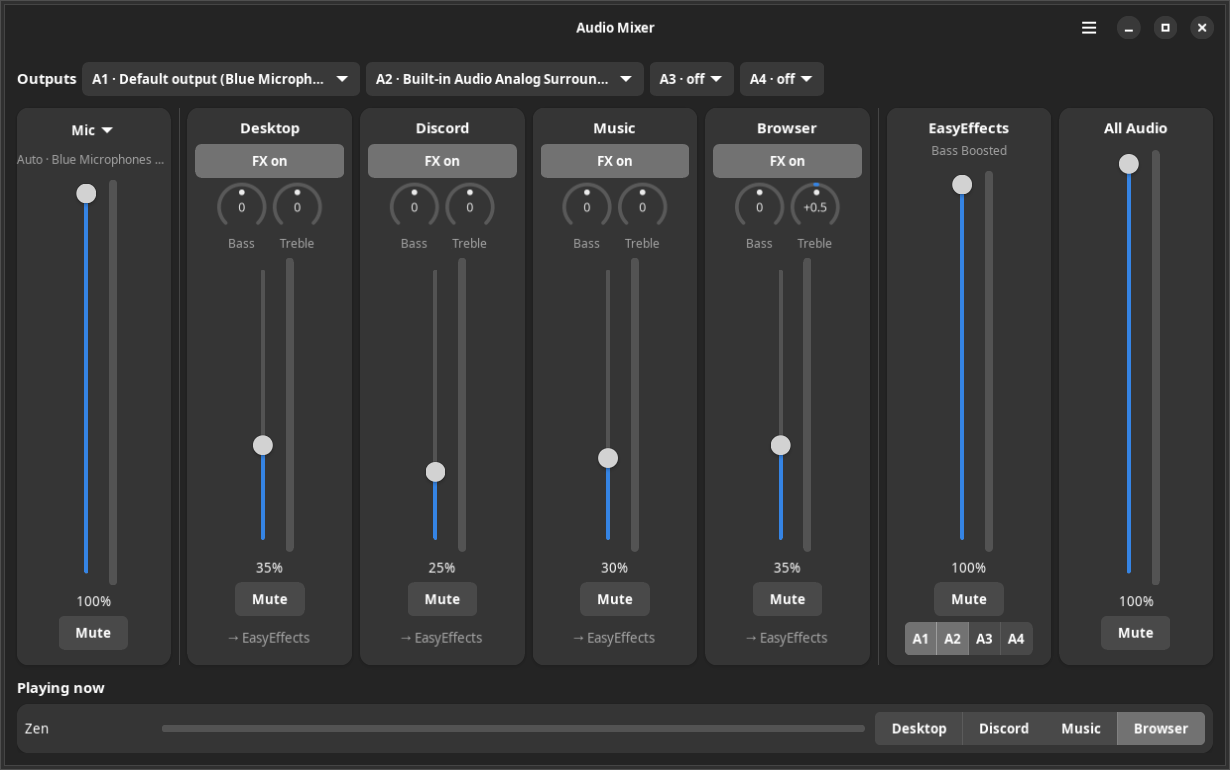
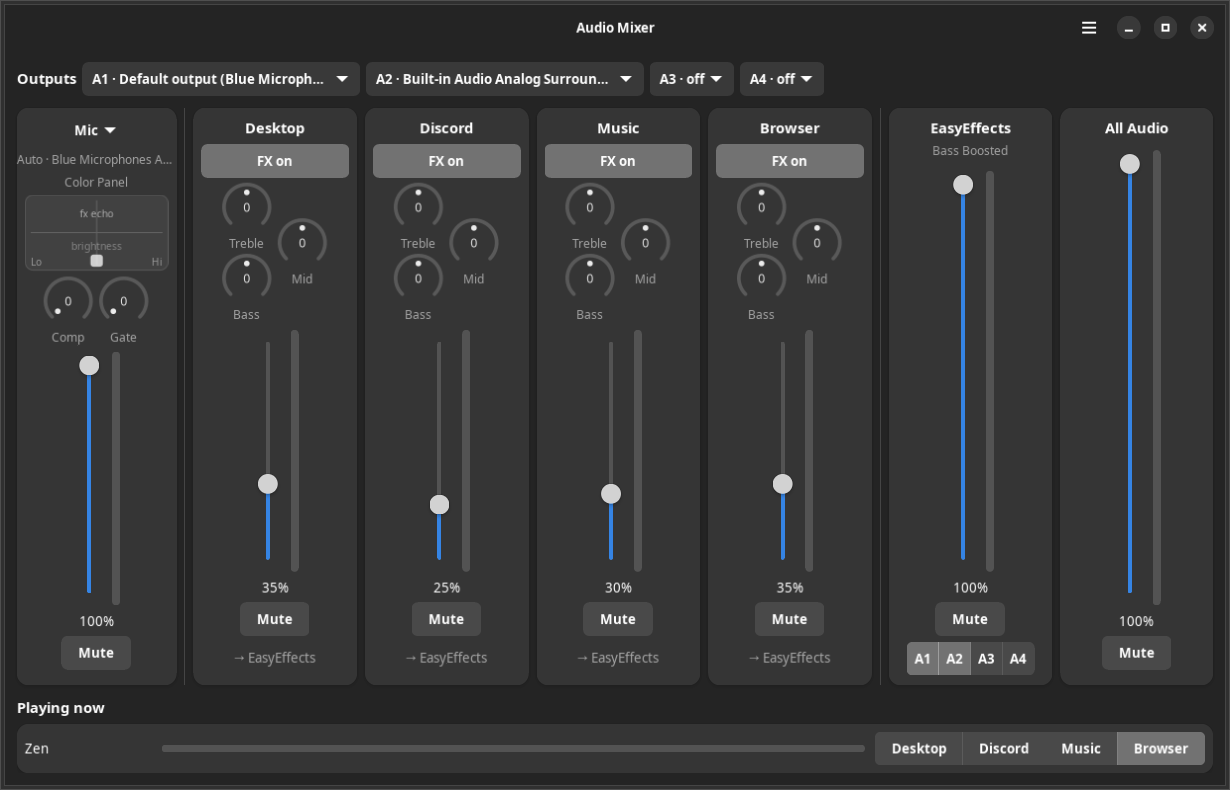
README: renaming, the 3-band EQ and the mic's Color Panel / Comp / Gate; new screenshots

diff --git a/README.md b/README.md
@@ -13,8 +13,10 @@ apart.
 ## What you get
 
 - **Four separate channels** — Desktop (games and everything else), Discord,
-  Music and Browser — each with its own volume, mute, Bass and Treble.
-- **Your mic on its own strip**, through EasyEffects if you like.
+  Music and Browser — each with its own volume, mute and Treble / Mid / Bass.
+  **Rename them** to whatever you route there.
+- **Your mic on its own strip** with VoiceMeeter's **Color Panel** (tone,
+  brightness, echo) and **Comp / Gate** knobs, then through EasyEffects.
 - **Apps land on the right channel by themselves.** New ones go to Desktop and
   you pick their channel once, in the window.
 - **Outputs A1–A4**: send any channel to your speakers, headset, HDMI… or
@@ -48,24 +50,41 @@ level in %. From left to right:
 
 | Strip           | What it's for                                                                 |
 | --------------- | ----------------------------------------------------------------------------- |
-| **Mic**         | Your microphone. Click its name to pick a different mic.                      |
-| **Channels**    | **FX** on = through EasyEffects, off = plays dry on its own **A1–A4** outputs. |
+| **Mic**         | Your microphone, with the Color Panel and Comp / Gate. Click its name to pick a different mic. |
+| **Channels**    | **FX** on = through EasyEffects, off = plays dry on its own **A1–A4** outputs. Treble / Mid / Bass. |
 | **EasyEffects** | Everything with FX on, after your EasyEffects preset, and where it plays.     |
 | **All Audio**   | All channels mixed — pick it as an input in OBS (it doesn't include your mic). |
 
-- **Bass and Treble knobs** (±12 dB): drag up or down to turn them,
+- **Treble, Mid and Bass knobs** (±12 dB): drag up or down to turn them,
   double-click to set them back to 0. Click one first and the mouse wheel or
   arrow keys turn it too.
+- **Rename a channel**: right-click its name, type, Enter. Only the name
+  changes — its apps, hotkeys and settings stay. Other apps see the new name
+  after the audio engine restarts (the window offers to do that).
 - **Outputs** (top row): choose which device A1–A4 are. "Default output"
   follows your headset when you plug it in.
 - **Playing now** (bottom): every app making sound. Click a channel to move the
   app there — for good. New apps are marked **NEW**.
 
+### Your mic: Color Panel, Comp and Gate
+
+Like VoiceMeeter's mic strips:
+
+- **Color Panel** — drag the square. Left warms your voice up (**Lo**), right
+  makes it thinner and clearer (**Hi**). Up adds **brightness**; past the line
+  it adds an **echo** too. Double-click puts it back in the middle (no change).
+- **Comp** evens out loud and quiet (0 = off, 10 = a lot), and keeps your
+  normal speaking level about the same.
+- **Gate** hushes the room between your words (0 = off; higher = only louder
+  sounds get through).
+
+All of it runs inside PipeWire itself — no plugins, no extra programs.
+
 ### It fits any size
 
-Make the window smaller and everything shrinks with it, step by step — no
-scroll bars. Make it narrow (or short) and it turns into a compact mixer for a
-corner of your screen:
+Make the window smaller — narrower or shorter — and everything shrinks with
+it, step by step, with no scroll bars. Make it really small and it turns into
+a compact mixer for a corner of your screen:
 
 <img src="docs/images/mixer-window-compact.png" alt="The compact view" width="300">
 
@@ -93,12 +112,12 @@ output. A small overlay shows each change on screen.
 
 The defaults:
 
-| Channel | What goes here                      | Mute          | Volume down | Volume up   |
+| Channel (default name) | What goes here      | Mute          | Volume down | Volume up   |
 | ------- | ----------------------------------- | ------------- | ----------- | ----------- |
-| Desktop | Games, wine/proton, everything else | `Ctrl+Num1`   | `Ctrl+Num4` | `Ctrl+Num7` |
-| Discord | Discord                             | `Ctrl+Num2`   | `Ctrl+Num5` | `Ctrl+Num8` |
-| Music   | YouTube Music, Spotify, Plexamp     | `Ctrl+Num3`   | `Ctrl+Num6` | `Ctrl+Num9` |
-| Browser | Chrome, Firefox, Brave, Zen…        | `Ctrl+NumDel` | `Ctrl+Num+` | `Ctrl+Num-` |
+| Desktop  | Games, everything else      | `Ctrl+Num1`   | `Ctrl+Num4` | `Ctrl+Num7` |
+| Discord  | Discord                     | `Ctrl+Num2`   | `Ctrl+Num5` | `Ctrl+Num8` |
+| Music    | YouTube Music, Spotify…     | `Ctrl+Num3`   | `Ctrl+Num6` | `Ctrl+Num9` |
+| Browser  | Chrome, Firefox, Zen…       | `Ctrl+NumDel` | `Ctrl+Num+` | `Ctrl+Num-` |
 
 A muted mic stays muted: changing its level doesn't unmute it, and it's still
 muted after a reboot.
@@ -178,23 +197,27 @@ audio-mixer fx browser off             # Browser plays dry
 audio-mixer slot A2 alsa_output.usb-…  # A2 = the headset
 audio-mixer out browser A2 on          # Browser also plays on A2
 audio-mixer out fx A2 on               # the EasyEffects strip also plays on A2
-audio-mixer eq music bass 6            # +6 dB bass on Music
+audio-mixer eq music bass 6            # +6 dB bass on Music (bass, mid or treble)
 audio-mixer mic auto                   # or a device name from `devices`
+audio-mixer mic comp 3                 # the mic's Comp / Gate, 0-10
+audio-mixer mic color -0.5 0.7         # Color Panel: x -1 (Lo)..1 (Hi), y 0..1
+audio-mixer rename music Podcasts      # a channel's new name
 audio-mixer hotkeys list               # every action and its keys
 audio-mixer hotkeys set mic:mute "<Ctrl><Alt>m"
 audio-mixer restart easyeffects        # or: restart engine
 ```
 
-Your settings live in `~/.config/audio-mixer/`: `mixer.json` (FX, outputs,
-Bass/Treble, mic), `hotkeys.json`, `routes.json` (which app goes where) and
+Your settings live in `~/.config/audio-mixer/`: `channels.conf` (the channels
+and their names), `mixer.json` (FX, outputs, EQ, the mic and its Color Panel /
+Comp / Gate), `hotkeys.json`, `routes.json` (which app goes where) and
 `window.json` (window size and theme).
 </details>
 
 <details>
 <summary><b>Customizing</b></summary>
 
-- **Channels** — add, remove or rename them in
-  `~/.config/audio-mixer/channels.conf`, then run `audio-routes-apply`.
+- **Channels** — add or remove them in `~/.config/audio-mixer/channels.conf`,
+  then run `audio-routes-apply`. (Renaming is easier in the window.)
 - **Volume step per keypress** — `STEP` in `~/.local/bin/audio-channel-control`
   (default 1%).
 - **Overlay position** — `TOP_MARGIN` in `~/.local/bin/audio-osd`.
@@ -206,8 +229,8 @@ Bass/Treble, mic), `hotkeys.json`, `routes.json` (which app goes where) and
 <details>
 <summary><b>How it works</b></summary>
 
-Each channel is a virtual PipeWire sink with its own volume and Bass/Treble
-filters. Apps are placed on their channel **the moment they start** — PipeWire
+Each channel is a virtual PipeWire sink with its own volume and Treble / Mid /
+Bass filters. Apps are placed on their channel **the moment they start** — PipeWire
 is told where each app belongs before its stream exists — so nothing ever
 blasts at full volume on the wrong output, and a restarted player comes back
 on its own channel.
@@ -216,19 +239,19 @@ on its own channel.
   Discord        Spotify        Chrome      games, new apps
      │              │              │                │
      ▼              ▼              ▼                ▼
- Discord_Audio  Music_Audio   Browser_Audio    Default_Audio   ← volume + Bass/Treble
+ Discord_Audio  Music_Audio   Browser_Audio    Default_Audio   ← volume + Treble/Mid/Bass
      │              │              │                │            (Desktop)
      ├── FX on ──► EasyEffects ──► its A1–A4
      ├── FX off ─► the channel's own A1–A4 (speakers, headset, HDMI…)
      └── always ─► All Audio (input for OBS / recorders)
 
-  real mic ──► Mixer Mic ──► EasyEffects (input effects) ──► apps' default mic
+  real mic ──► Mixer Mic (Gate, Comp, Color Panel) ──► EasyEffects ──► apps' default mic
 ```
 
 | Part                    | What it does                                                         |
 | ----------------------- | -------------------------------------------------------------------- |
 | `audio-mixer-window`    | The window (GTK 4 + libadwaita)                                      |
-| `audio-mixer`           | Command line for FX, outputs, Bass/Treble, mic, hotkeys, restarts    |
+| `audio-mixer`           | Command line for FX, outputs, EQ, the mic, names, hotkeys, restarts  |
 | `audio-routes-apply`    | Builds the channel sinks and app routing rules                       |
 | `audio-router-daemon`   | Keeps everything wired, restores levels at login, asks about new apps |
 | `audio-channel-control` | What the hotkeys run                                                  |
